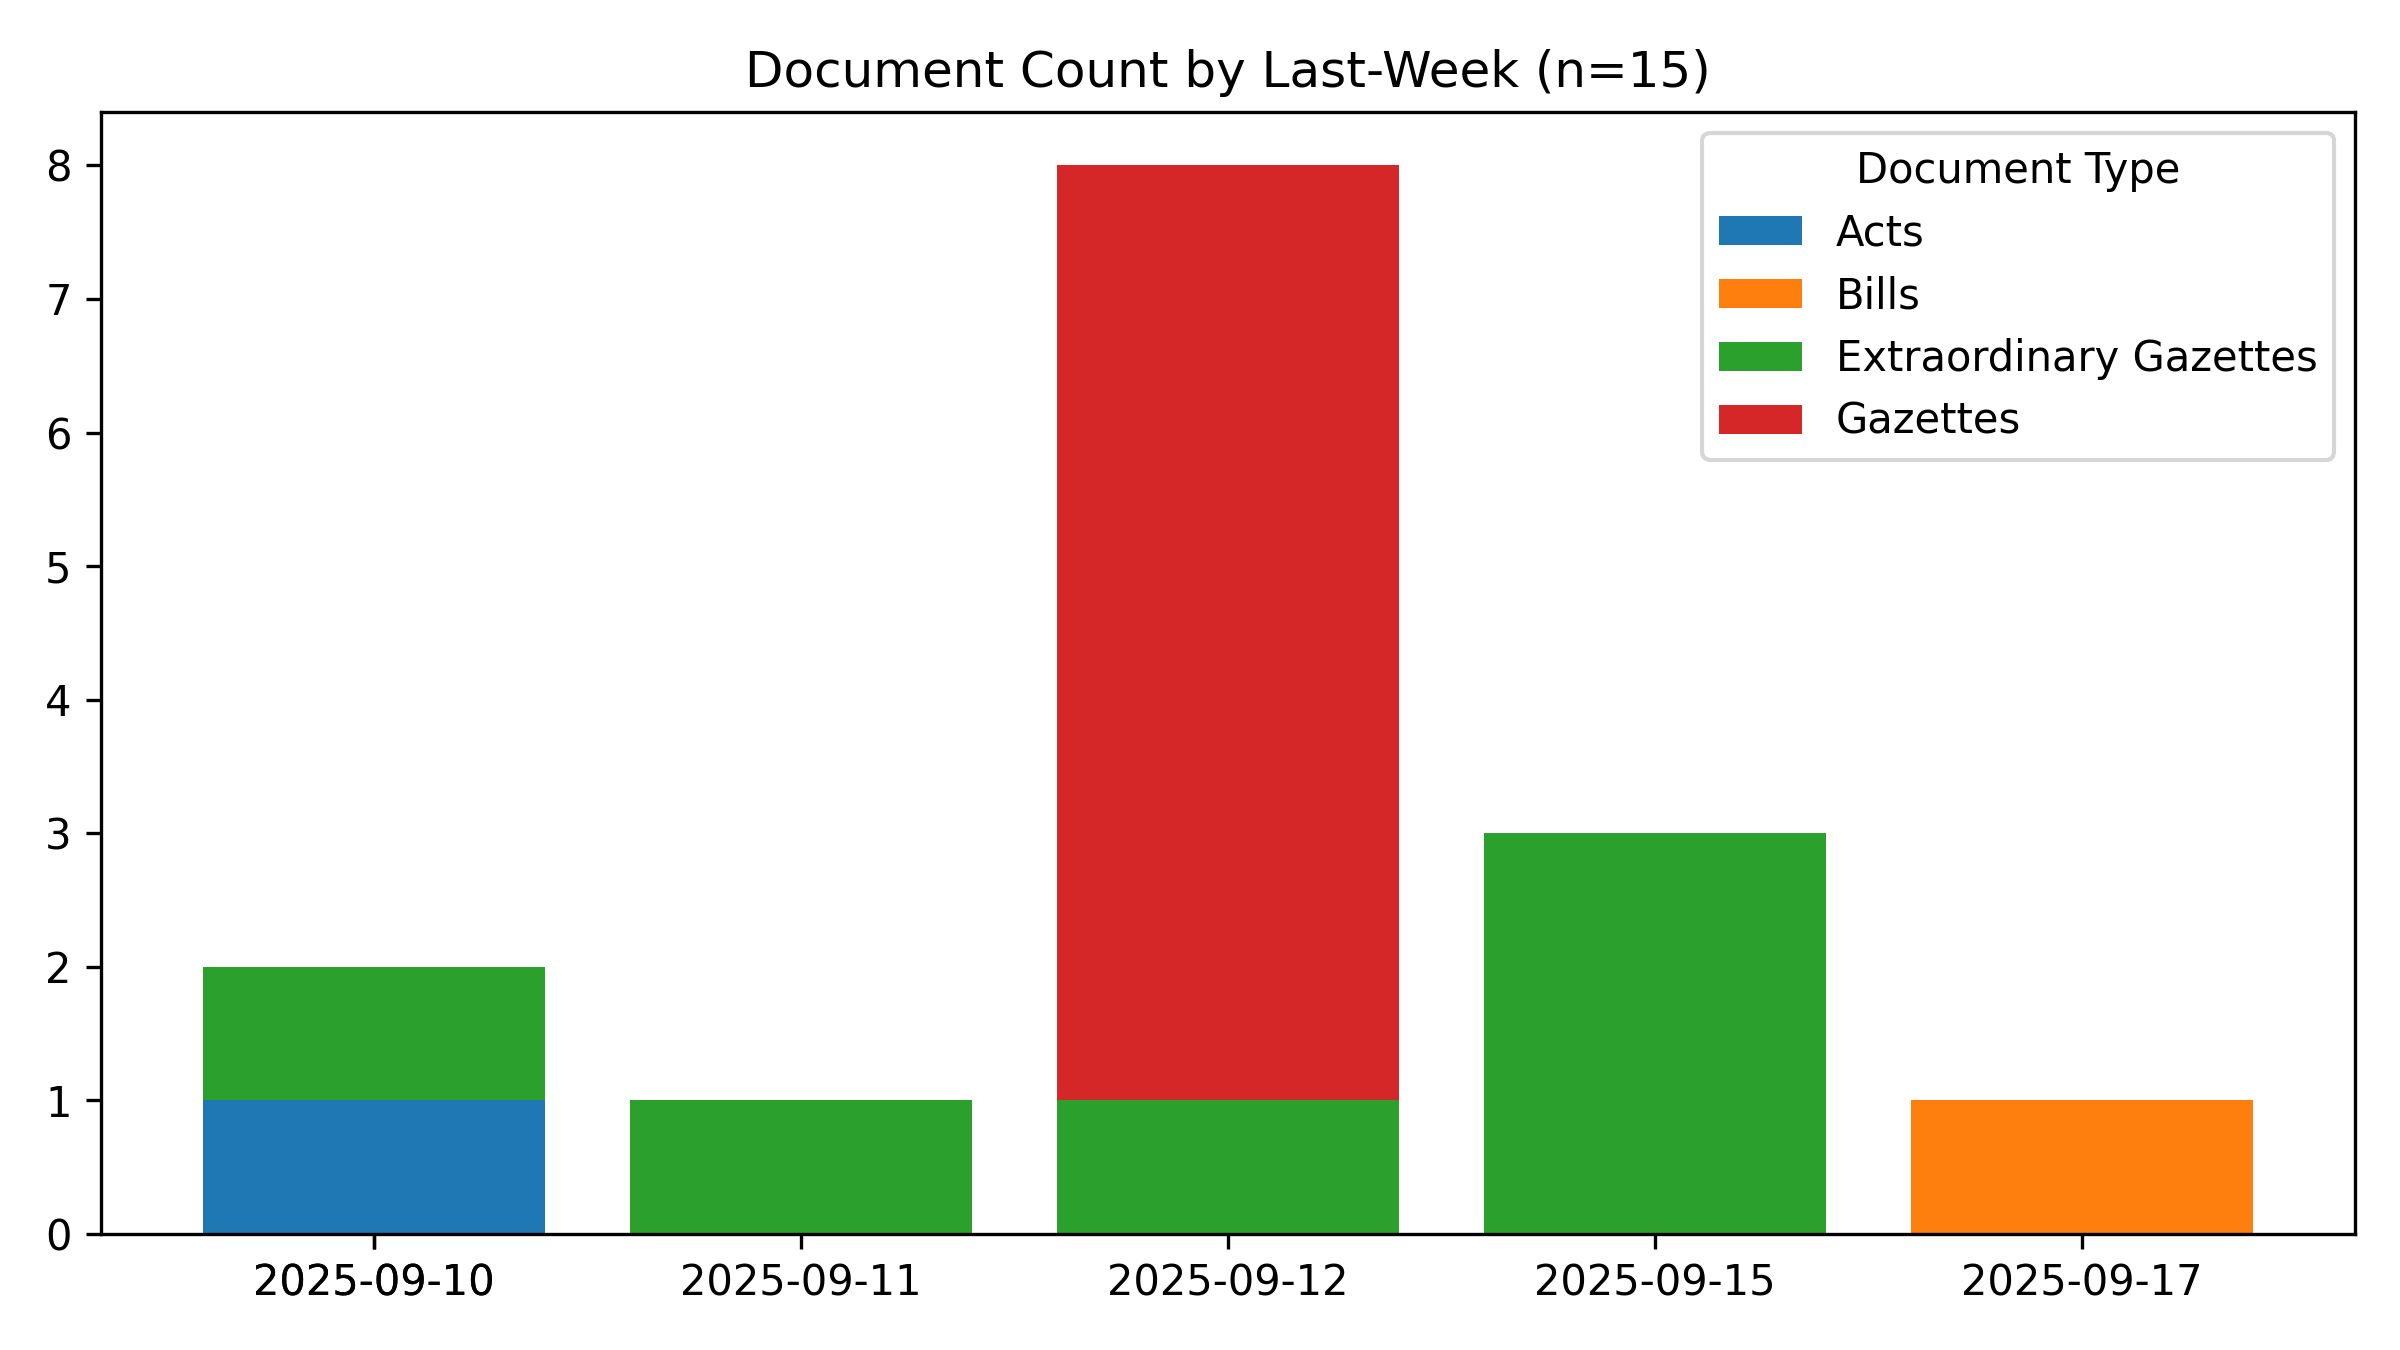
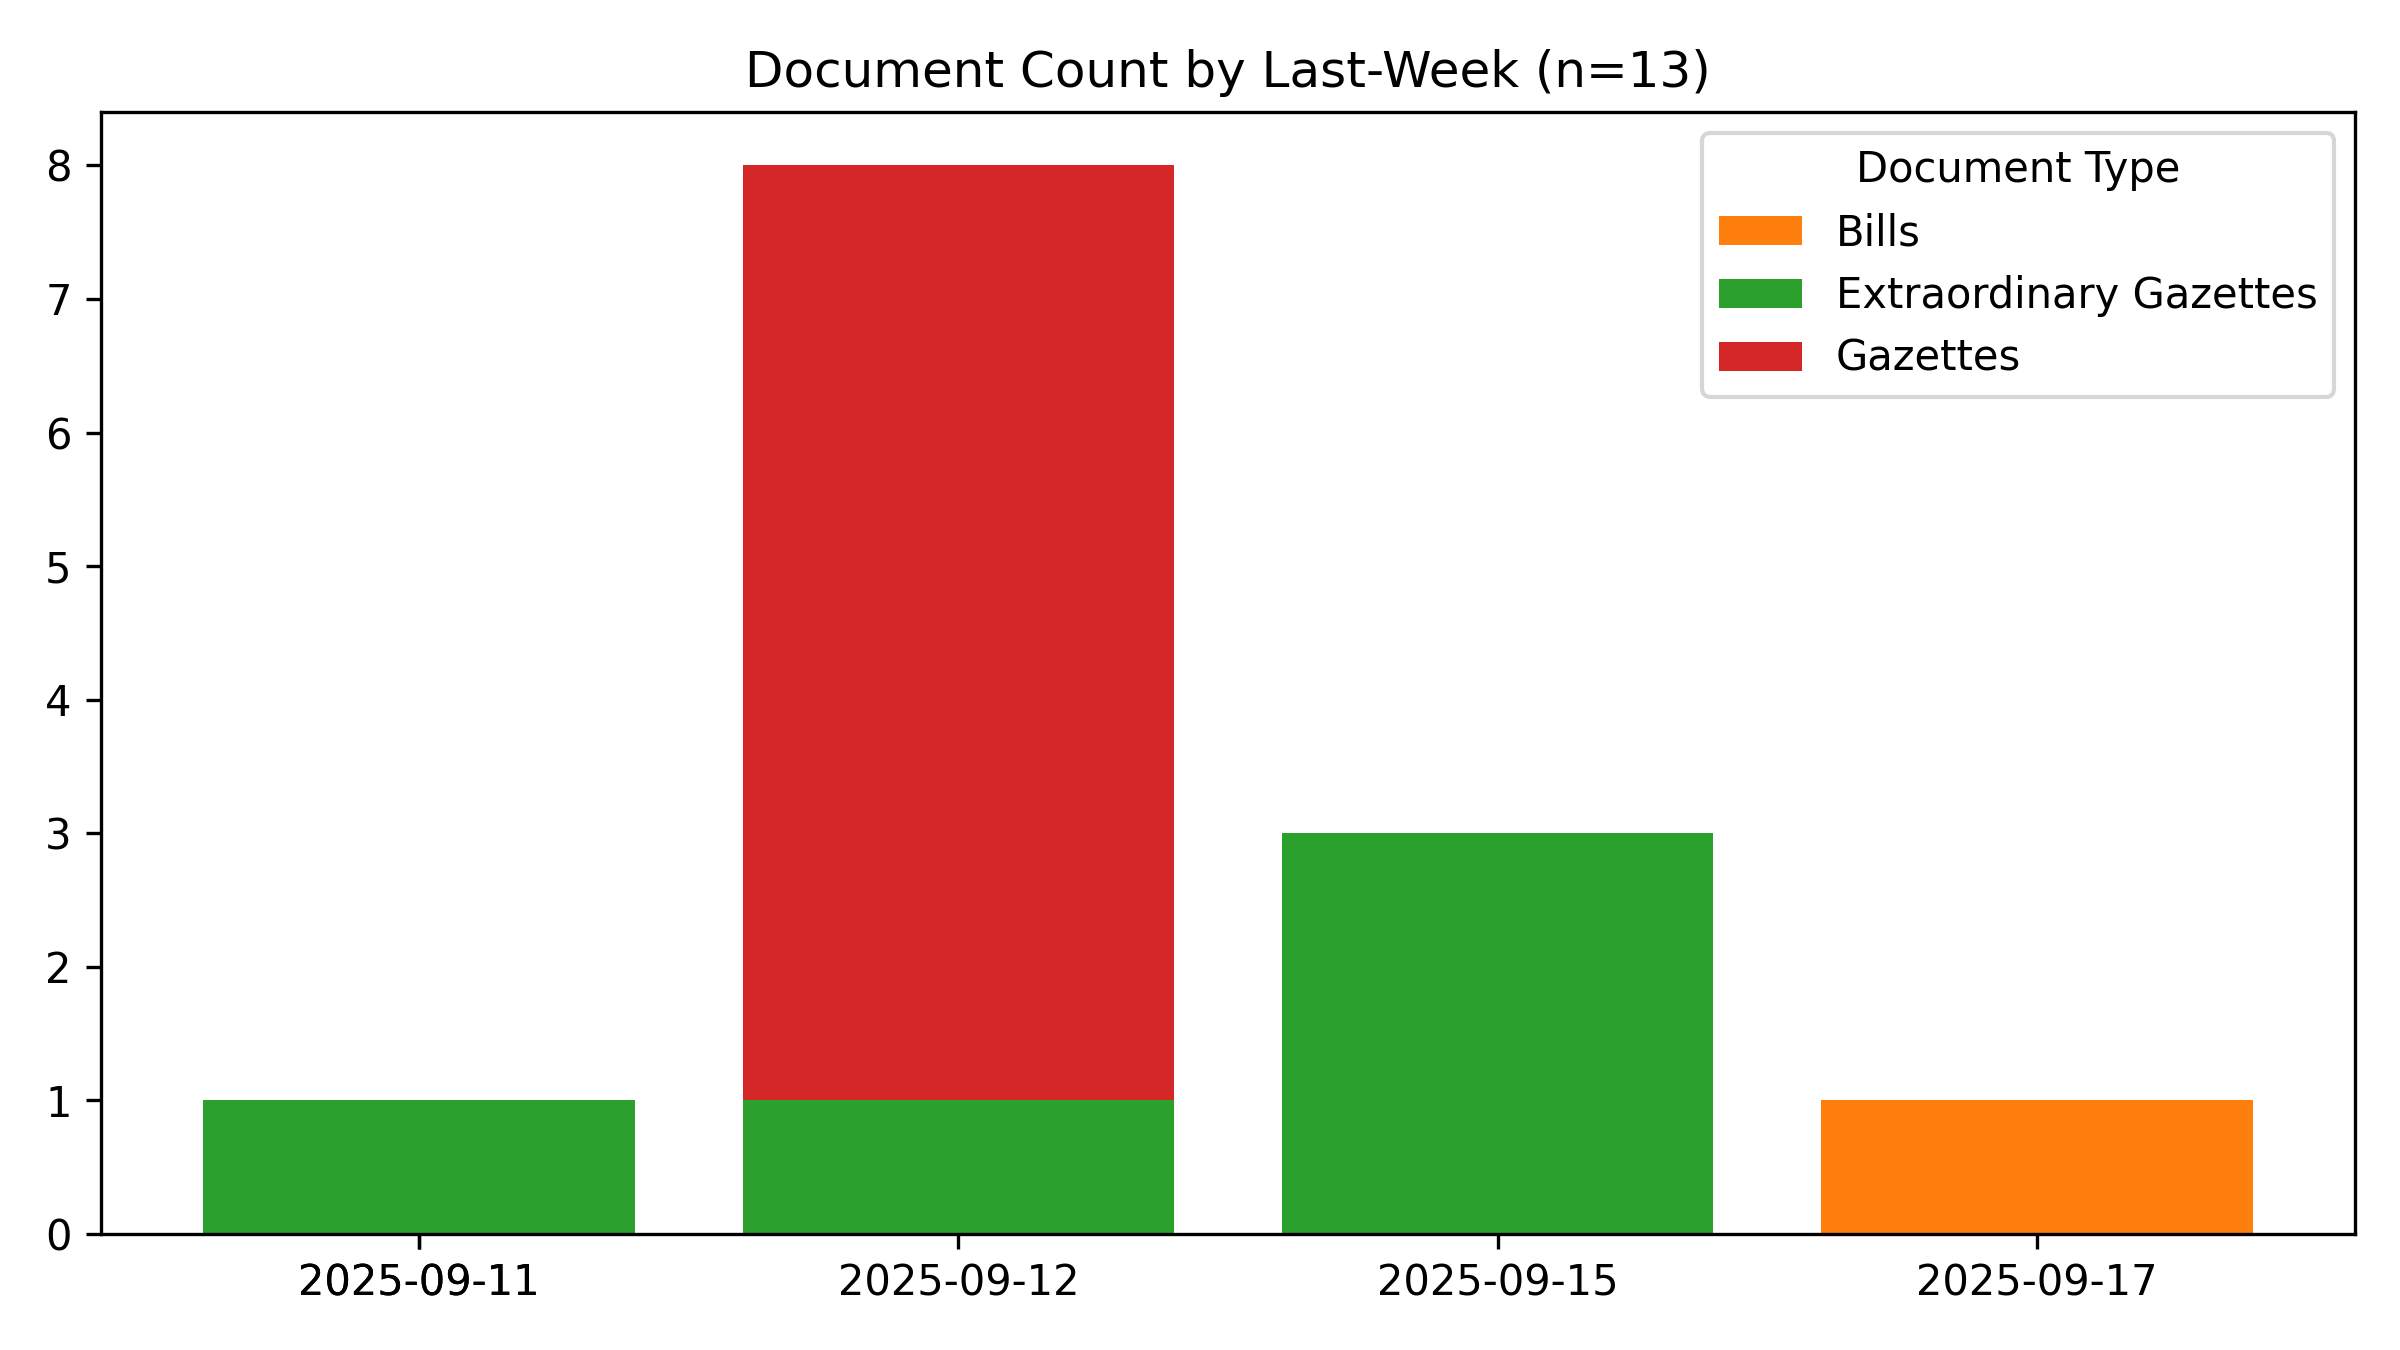
🤖 [build_readme.yml] 2025-09-18-0014

Changed region(s): [[0.0625, 0.1244, 0.9062, 0.9644], [0.6875, 0.1556, 0.9688, 0.3422]]

diff --git a/README.md b/README.md
@@ -1,6 +1,6 @@
 # #SriLanka 🇱🇰 - Legal Documents #Dataset
 
-*Last Updated **2025-09-18 05:12:59**.*
+*Last Updated **2025-09-18 05:44:51**.*
 
 **44,662** documents (24.4 MB), from 1981-01-22 to 2025-09-17.
 
@@ -54,7 +54,7 @@ For best results, use a desktop browser.
 
 ## Recent Documents (Published during the last 7 days)
 
-**15** Documents
+**13** Documents
 
 - ✍ [2025-09-17] [Appropriation](https://github.com/nuuuwan/lk_legal_docs_data/tree/data_2020s/data/bills/2025/632-2025)
 - 🚨 [2025-09-15] [2454/13](https://github.com/nuuuwan/lk_legal_docs_data/tree/data_2020s/data/extra-gazettes/2025/2454-13)
@@ -69,5 +69,3 @@ For best results, use a desktop browser.
 - 📢 [2025-09-12] [(IIA) - Advertising](https://github.com/nuuuwan/lk_legal_docs_data/tree/data_2020s/data/gazettes/2025/2025-09-12-iia-advertising)
 - 📢 [2025-09-12] [(I) - General](https://github.com/nuuuwan/lk_legal_docs_data/tree/data_2020s/data/gazettes/2025/2025-09-12-i-general)
 - 🚨 [2025-09-11] [2453/24](https://github.com/nuuuwan/lk_legal_docs_data/tree/data_2020s/data/extra-gazettes/2025/2453-24)
-- 🚨 [2025-09-10] [2453/22](https://github.com/nuuuwan/lk_legal_docs_data/tree/data_2020s/data/extra-gazettes/2025/2453-22)
-- 🏛 [2025-09-10] [PresidentsÃ¢â¬â¢ Entitlements (Repeal)](https://github.com/nuuuwan/lk_legal_docs_data/tree/data_2020s/data/acts/2025/18-2025)
